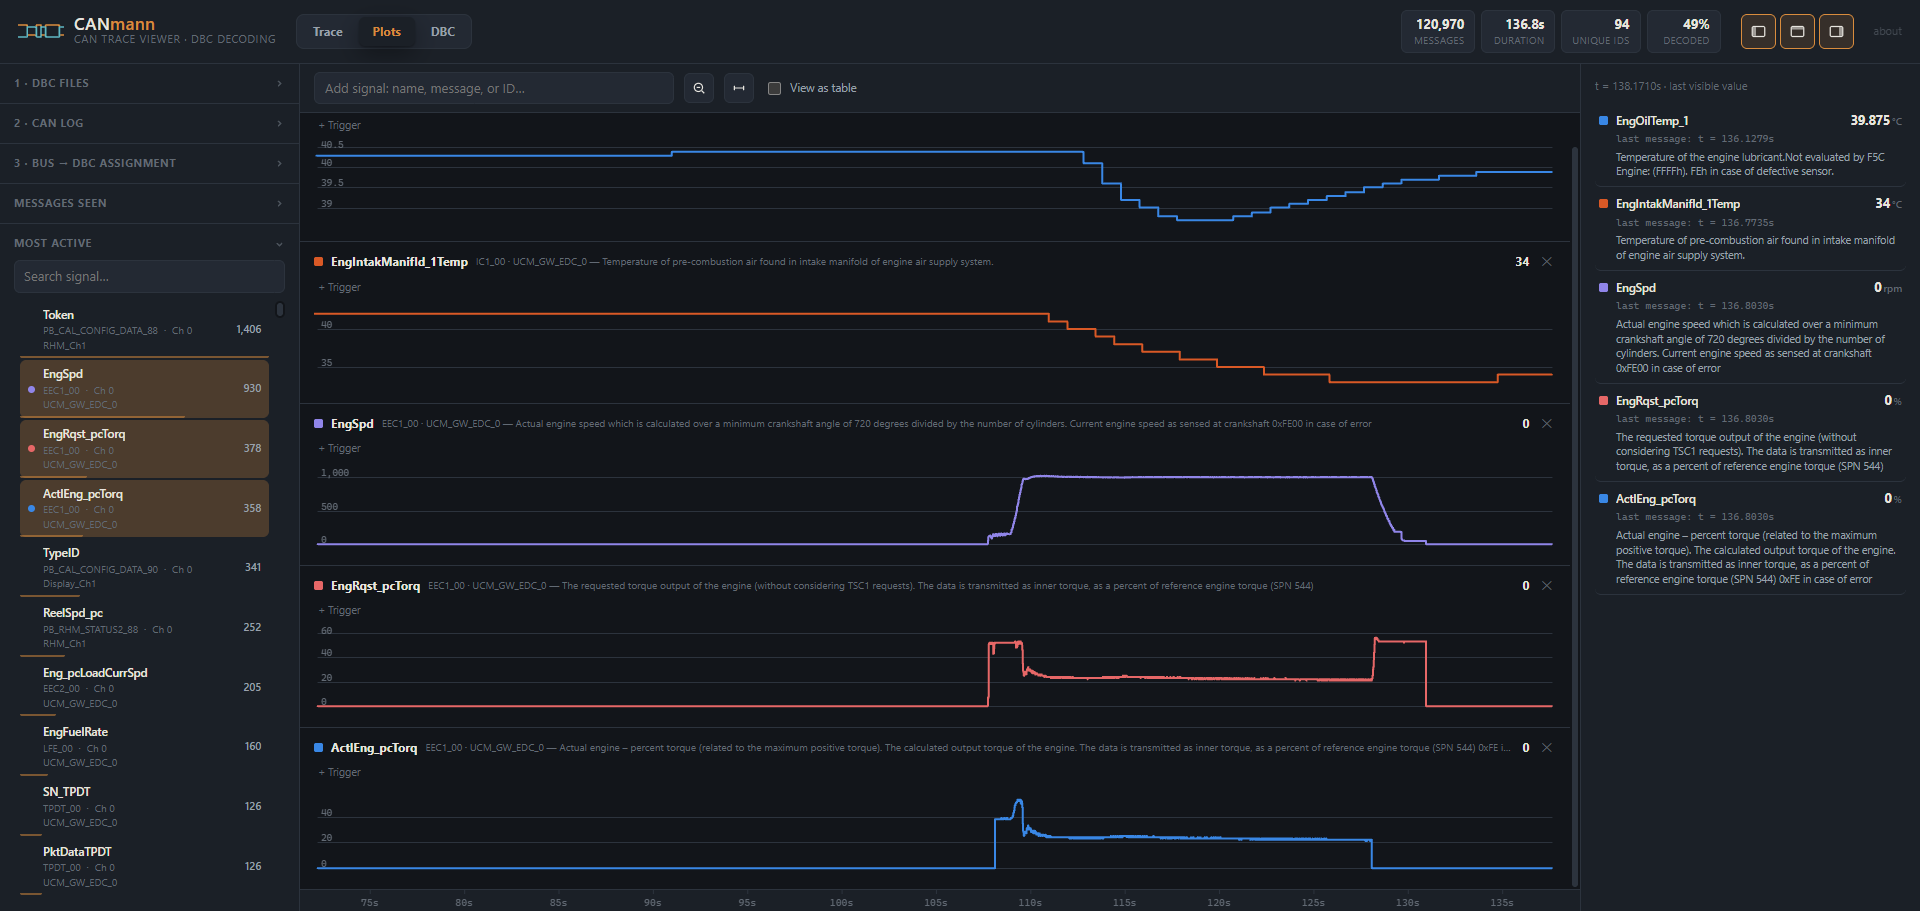
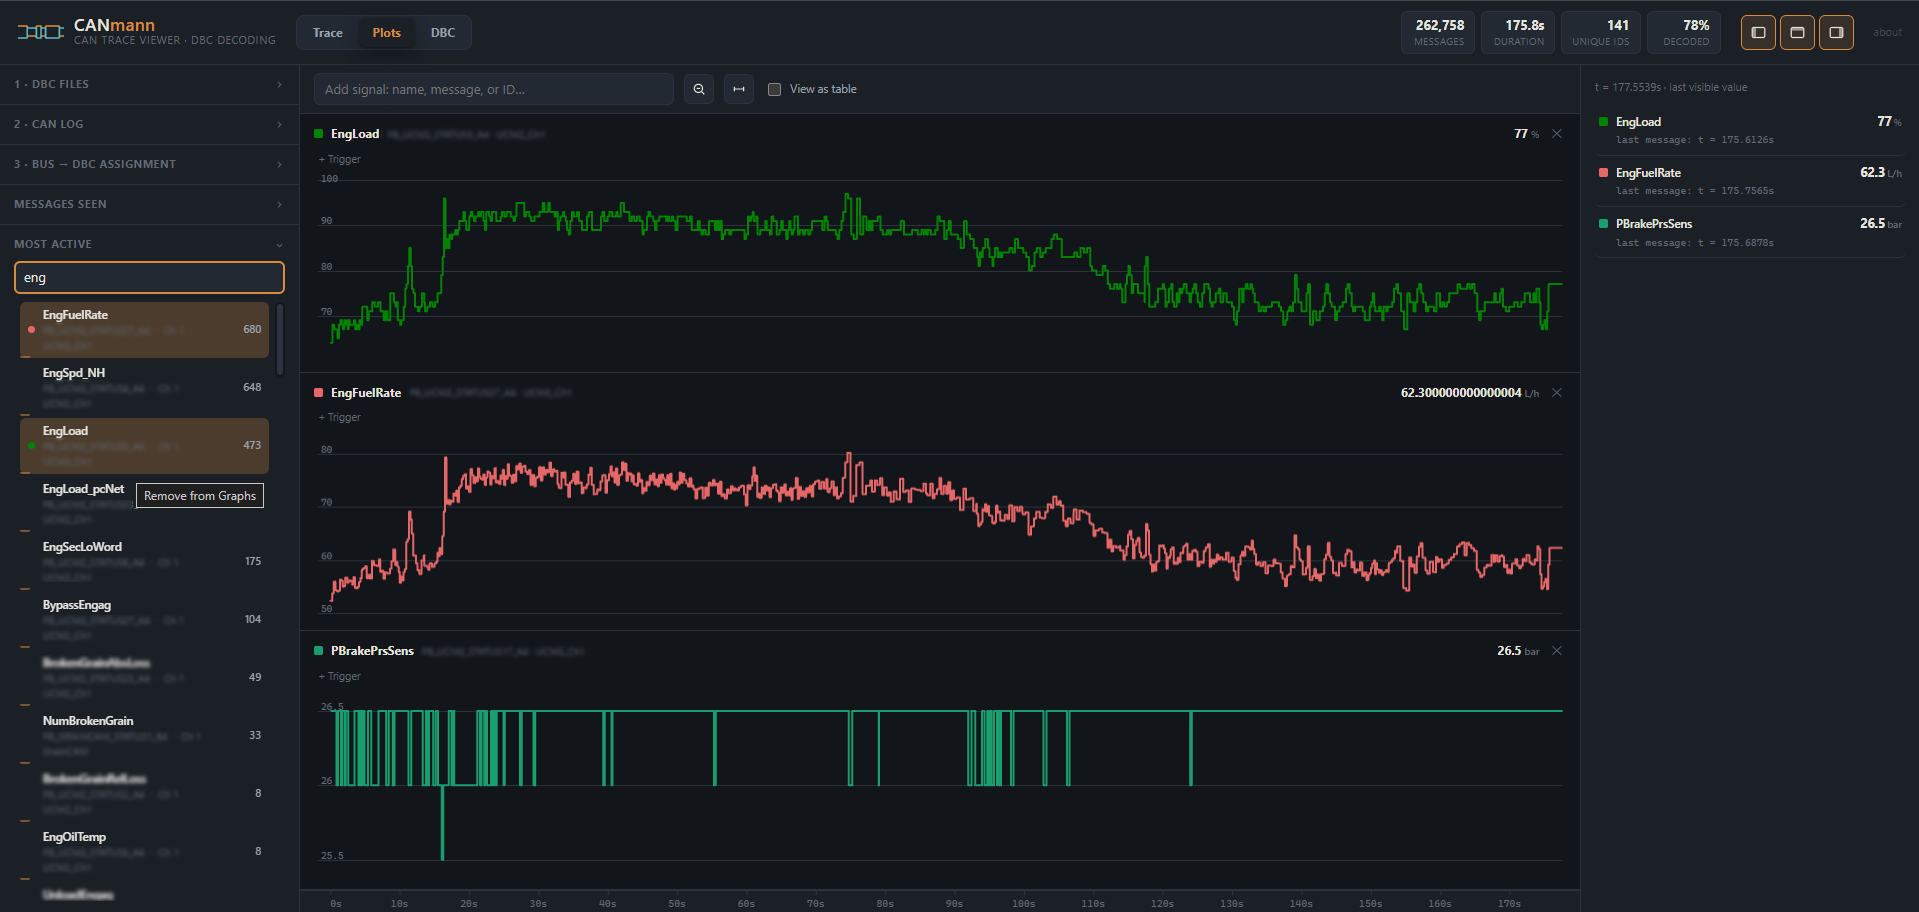
Stretch chart lane canvases to fill the Plots area when few signals are loaded; bump to v6.5.0
Previously every lane's canvas was a fixed 92px regardless of how much vertical space was free, leaving blank area below the last lane whenever only a couple of signals were plotted. Canvases now grow evenly to fill the chart-scroll viewport when they fit, and fall back to that same 92px floor (with scrolling) once there isn't enough room.

diff --git a/can_viewer.html b/can_viewer.html
@@ -1273,7 +1273,7 @@
   const ROW_H = 25;
   const el = (id) => document.getElementById(id);
 
-  const APP_VERSION = "6.4.0";
+  const APP_VERSION = "6.5.0";
   const UPDATE_CHECK_URL = "https://raw.githubusercontent.com/vollmann-ariel/CANmann/main/can_viewer.html";
   const CURRENT_FILE_NAME = decodeURIComponent(location.pathname.split("/").pop() || "") || "can_viewer.html";
 
@@ -2747,7 +2747,27 @@
         s.el.ctx = canvas.getContext("2d");
       }
     }
+    layoutChartLanes();
     requestRedraw();
+  }
+
+  // Grows each lane's canvas evenly past its CSS min-height (fixed at 92px) so that when few
+  // enough signals are plotted, they spread out to fill the visible chart-scroll area instead of
+  // leaving blank space below the last lane — never below that 92px floor when they don't all fit.
+  function layoutChartLanes() {
+    if (state.chart.tableView) return;
+    const canvases = [];
+    for (const key of state.chart.order) {
+      const s = state.chart.series.get(key);
+      if (s.el && s.el.canvas) { s.el.canvas.style.height = ""; canvases.push(s.el.canvas); }
+    }
+    if (canvases.length === 0) return;
+    const naturalHeight = el("chartStack").scrollHeight;
+    const availableHeight = el("chartScroll").clientHeight;
+    const extra = availableHeight - naturalHeight;
+    if (extra <= 0) return; // no caben todas al mínimo -> se deja el mínimo fijo, aparece scroll como antes
+    const perCanvas = extra / canvases.length;
+    for (const canvas of canvases) canvas.style.height = (canvas.getBoundingClientRect().height + perCanvas) + "px";
   }
 
   function buildLaneTable(s) {
@@ -3276,7 +3296,7 @@
       if (state.selectedRow !== null) scrollRowIntoView(state.selectedRow);
       renderVisibleRows();
     }
-    if (tab === "graficas") { ensureFullRange(); if (state.chart.order.length > 0) requestRedraw(); }
+    if (tab === "graficas") { ensureFullRange(); if (state.chart.order.length > 0) { layoutChartLanes(); requestRedraw(); } }
   }
 
   /* ---------- misc UI wiring ---------- */
@@ -3289,7 +3309,7 @@
       btn.classList.toggle("collapsed", collapsed);
       btn.setAttribute("aria-pressed", String(!collapsed));
       document.querySelectorAll(selector).forEach((n) => n.classList.toggle("collapsed", collapsed));
-      if (state.tab === "graficas") requestRedraw();
+      if (state.tab === "graficas") { layoutChartLanes(); requestRedraw(); }
     });
   }
 
@@ -3368,7 +3388,7 @@
   });
   selectAllOnFocus(el("chartAddInput"));
   document.addEventListener("click", (e) => { if (!e.target.closest(".chart-add-box")) el("chartAddResults").classList.remove("open"); });
-  window.addEventListener("resize", () => { if (state.tab === "graficas") requestRedraw(); });
+  window.addEventListener("resize", () => { if (state.tab === "graficas") { layoutChartLanes(); requestRedraw(); } });
   wireChartInteraction();
 
   wireLayoutToggle("toggleRailLeftBtn", ".rail-left");
